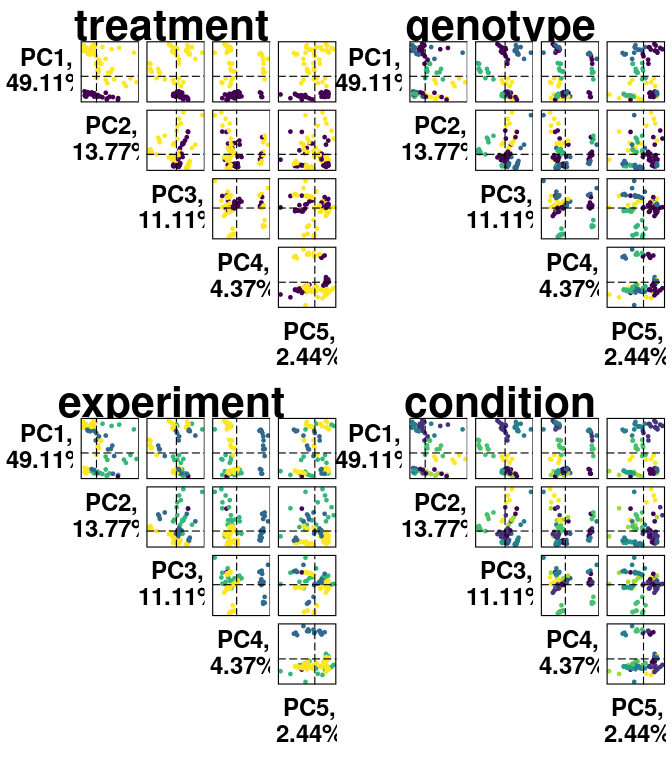
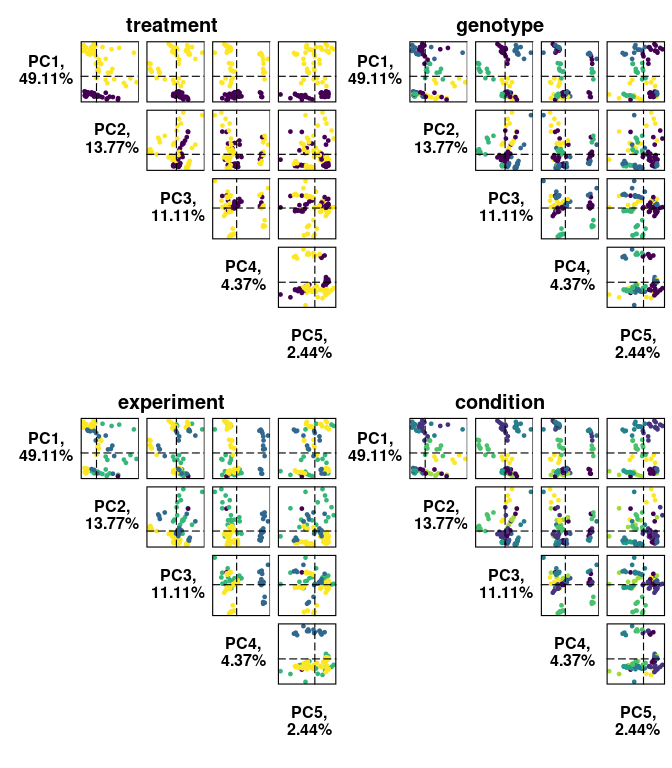
Advanced PCA

diff --git a/data_processing/README.md b/data_processing/README.md
@@ -5968,16 +5968,16 @@ g4 <- ggplot(pcaData, aes(PC1, PC2, label=orig.name,color=condition, shape=genot
 p <- pca(vst_dat, metadata = colData(dds), removeVar = 0.1)
 
 # check different PCAs
-p1 <- pairsplot(p,colby = 'treatment', colkey = viridis(2),title = 'treatment',
+p1 <- pairsplot(p,colby = 'treatment', colkey = viridis(2),title = 'treatment',titleLabSize = 15,trianglelabSize = 12,
                 hline = 0, vline = 0,gridlines.major = FALSE, gridlines.minor = FALSE,
                 plotaxes = FALSE,margingaps = unit(c(-0.01, -0.01, -0.01, -0.01), 'cm')) # -> PC1 = treatment
-p2 <- pairsplot(p,colby = 'genotype', colkey = viridis(4),title = 'genotype',
+p2 <- pairsplot(p,colby = 'genotype', colkey = viridis(4),title = 'genotype',titleLabSize = 15,trianglelabSize = 12,
                 hline = 0, vline = 0,gridlines.major = FALSE, gridlines.minor = FALSE,
                 plotaxes = FALSE,margingaps = unit(c(-0.01, -0.01, -0.01, -0.01), 'cm')) # -> PC1&3 = genotype
-p3 <- pairsplot(p,colby = 'experiment', colkey = viridis(4),title = 'experiment',
+p3 <- pairsplot(p,colby = 'experiment', colkey = viridis(4),title = 'experiment',titleLabSize = 15,trianglelabSize = 12,
                 hline = 0, vline = 0,gridlines.major = FALSE, gridlines.minor = FALSE,
                 plotaxes = FALSE,margingaps = unit(c(-0.01, -0.01, -0.01, -0.01), 'cm')) # -> PC4 = experiment
-p4 <- pairsplot(p,colby = 'condition', colkey = viridis(8),title = 'condition',
+p4 <- pairsplot(p,colby = 'condition', colkey = viridis(8),title = 'condition',titleLabSize = 15,trianglelabSize = 12,
                 hline = 0, vline = 0,gridlines.major = FALSE, gridlines.minor = FALSE,
                 plotaxes = FALSE,margingaps = unit(c(-0.01, -0.01, -0.01, -0.01), 'cm')) # PC1 & PC3 = condition
 
@@ -5999,11 +5999,14 @@ elbow
 
 horn <- list()
 horn$n <- 7
+
 screeplot(p,
-        components = getComponents(p),
-        vline = c(horn$n))+
-        geom_label(aes(x = horn$n, y = 50,
-        label = 'Horn\'s=7', vjust = -1, size = 8))
+    components = getComponents(p, 1:20),
+    vline = c(horn$n, elbow)) +
+    geom_label(aes(x = horn$n + 1, y = 30,
+      label = 'Horn\'s=7', vjust = -1, size = 8)) +
+    geom_label(aes(x = elbow + 1, y = 50,
+      label = 'Elbow=6', vjust = -1, size = 8))
 
 bi <- biplot(p,x="PC3",y="PC1",
     lab = p$metadata$experiment,
@@ -6042,6 +6045,59 @@ plotloadings(p,
 ```
 
 <img src="README_files/figure-gfm/pca_advanced-1.png" width="100%" /><img src="README_files/figure-gfm/pca_advanced-2.png" width="100%" /><img src="README_files/figure-gfm/pca_advanced-3.png" width="100%" /><img src="README_files/figure-gfm/pca_advanced-4.png" width="100%" />
+
+###### – PCA gif
+
+``` r
+saveGIF({
+  ani.options(nmax = 100)
+for (i in 1:100){
+  n <- i*250
+pcaData <- plotPCA(vsd, intgroup=colnames(colData(vsd)), returnData=TRUE,ntop=n)
+percentVar <- round(100 * attr(pcaData, "percentVar"))
+g1 <- ggplot(pcaData, aes(PC1, PC2, color=treatment, shape=genotype)) +
+  geom_point(size=5, alpha=0.7) +
+  labs(title = "treatment") +
+  xlab(paste0("PC1: ",percentVar[1],"% variance")) +
+  ylab(paste0("PC2: ",percentVar[2],"% variance")) + 
+  coord_cartesian(xlim = c(-100, 100),ylim = c(-100,100)) +
+  scale_color_manual(values = c("lightcoral","skyblue1"))
+
+g2 <- ggplot(pcaData, aes(PC1, PC2, color=experiment, shape=genotype)) +
+  geom_point(size=5, alpha=0.7) +
+  labs(title = "experiment") +
+  coord_cartesian(xlim = c(-100, 100),ylim = c(-100,100)) +
+  xlab(paste0("PC1: ",percentVar[1],"% variance")) +
+  ylab(paste0("PC2: ",percentVar[2],"% variance")) +
+  scale_color_viridis_d(option ="viridis")
+
+g3 <- ggplot(pcaData, aes(PC1, PC2, color=condition, shape=genotype)) +
+  geom_point(size=5, alpha=0.7) +
+  labs(title = "condition") +
+  coord_cartesian(xlim = c(-100, 100),ylim = c(-100,100)) +
+  xlab(paste0("PC1: ",percentVar[1],"% variance")) +
+  ylab(paste0("PC2: ",percentVar[2],"% variance")) +
+  # coord_fixed()
+  scale_color_viridis_d(option ="viridis")
+plot((g1+g2)/g3 +
+       plot_annotation(title = paste("number of variable genes: ",n)) +
+       plot_layout(guides = 'collect')
+     )
+ani.pause()
+}
+}, interval = 0.5, movie.name = 'pca.gif', ani.width = 600, ani.height = 600)
+
+
+#
+```
+
+<a href="pca.gif" height="100%," width="100%">PCA Gif</a>
+
+``` r
+knitr::include_graphics("pca.gif")
+```
+
+<img src="pca.gif" width="100%" />
 
 ### - Plot example counts
 
